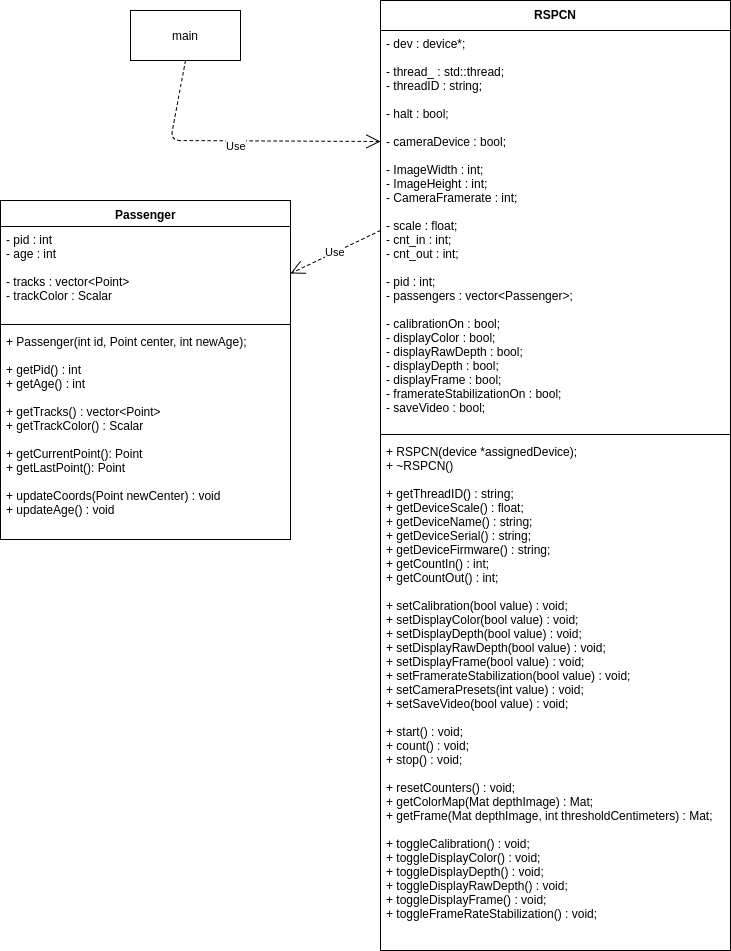
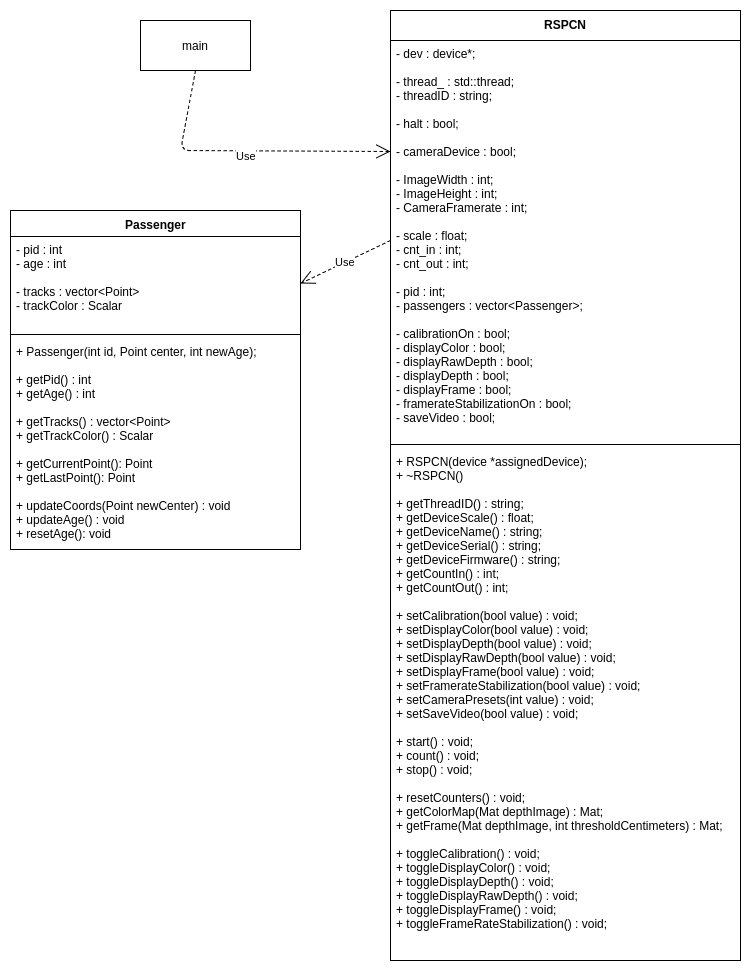
Aggiornato testo con ultime modifiche al codice

diff --git a/thesis.tex b/thesis.tex
@@ -822,6 +822,7 @@ class Passenger {
     // Methods
     void updateCoords(Point newCenter);
     void updateAge(){age++;return;};
+    void resetAge(){age = 0; return;};
 
   private:
     int pid;    // Passenger ID
@@ -834,30 +835,20 @@ class Passenger {
 \end{lstlisting}
 
 \begin{lstlisting}[language=C++, caption=passenger.cpp, style=customcpp]
-Passenger::Passenger(int id, Point center, int newAge = 0)
-{
+Passenger::Passenger(int id, Point center, int newAge = 0) {
     pid = id;
     age = newAge;
 
     tracks.push_back(center);
-    int r = rand() % 255;
-    int g = rand() % 255;
-    int b = rand() % 255;
-    trackColor = Scalar(r,g,b);
+    trackColor = Scalar(rand() % 255, rand() % 255, rand() % 255);
 }
 
-void Passenger::updateCoords(Point newCenter)
-{
+void Passenger::updateCoords(Point newCenter) {
     tracks.push_back(newCenter);
 
     // If too many tracking points remove older points
-    if(tracks.size() > MAX_TRACK_LENGTH) {
+    if(tracks.size() > MAX_TRACK_LENGTH)
         tracks.erase(tracks.begin());
-    }
-
-    // Reset age
-    // If the object is being tracked it means it's active we don't want it to disappear
-    age = 0;
 
     return;
 }
@@ -1148,6 +1139,7 @@ if(areaCurrentObject > areaMin)
             // Update coordinates
             newPassenger = false;
             passengers[i].updateCoords(mc);
+            passengers[i].resetAge();
 
             // --COUNTER
             if(passengers[i].getTracks().size() > 1)
@@ -1944,13 +1936,91 @@ void RSPCN::count()
         findContours(morphTrans, contours, hierarchy, RETR_EXTERNAL, CHAIN_APPROX_NONE);
 
         // For every detected object
-        for(unsigned int idx = 0; idx < contours.size(); idx++)
-        {
-            ...
+        for(unsigned int idx = 0; idx < contours.size(); idx++) {
+            // -- AREA
+            // Calculating area
+            double areaCurrentObject = contourArea(contours[idx]);
+
+            // If calculated area is big enough begin tracking the object
+            if(areaCurrentObject > areaMin) {
+                // Get bounding rectangle
+                Rect br = boundingRect(contours[idx]);
+                Point2f objCenter = Point2f((int)(br.x + br.width/2) ,(int)(br.y + br.height/2) );
+
+                // Draw mass center and bounding rectangle
+                rectangle( color, br.tl(), br.br(), GREEN, 2, 8, 0 );
+                circle( color, objCenter, 5, RED, 2, 8, 0 );
+
+                // --PASSENGERS DB UPDATE
+                bool newPassenger = true;
+
+                for(unsigned int i = 0; i < passengers.size(); i++) {
+
+                    // If the passenger is near a known passenger assume they are the same one
+                    if( abs(objCenter.x - passengers[i].getCurrentPoint().x) <= xNear &&
+                        abs(objCenter.y - passengers[i].getCurrentPoint().y) <= yNear ) {
+
+                        // Update coordinates
+                        newPassenger = false;
+                        passengers[i].updateCoords(objCenter);
+                        // If the object is being tracked it means its active we don't want it to disappear
+                        passengers[i].resetAge();
+
+                        break;
+                    }
+                }
+
+                // If wasn't near any known object is a new passenger
+                if(newPassenger) {
+                    Passenger p(pid, objCenter);
+                    passengers.push_back(p);
+                    pid++;
+                }
+            }
         }
-        ...
-    }
-    ...
+
+        // For every passenger in passengers DB
+        for(unsigned int i = 0; i < passengers.size(); i++) {
+            
+            if(passengers[i].getTracks().size() > 1) {
+
+                // -- DRAWING PASSENGER TRAJECTORIES
+                polylines(color, passengers[i].getTracks(), false, passengers[i].getTrackColor(),2);
+
+                // -- COUNTING
+                if(passengers[i].getTracks().size() > 1) {
+                    // Up to down
+                    if( (passengers[i].getLastPoint().y < frame.rows/2 && passengers[i].getCurrentPoint().y >= frame.rows/2) ||
+                        (passengers[i].getLastPoint().y <= frame.rows/2 && passengers[i].getCurrentPoint().y > frame.rows/2) ) {
+
+                        cnt_out++;
+
+                        // Visual feedback
+                        circle(color, Point(color.cols - 20, 20), 8, RED, CV_FILLED);
+                    }
+
+                    // Down to up
+                    if( (passengers[i].getLastPoint().y > frame.rows/2 && passengers[i].getCurrentPoint().y <= frame.rows/2) ||
+                        (passengers[i].getLastPoint().y >= frame.rows/2 && passengers[i].getCurrentPoint().y < frame.rows/2) ) {
+
+                        cnt_in++;
+
+                        // Visual feedback
+                        circle(color, Point(color.cols - 20, 20), 8, GREEN, CV_FILLED);
+                    }
+
+                }
+                
+            }
+
+            // --UPDATE PASSENGER STATS
+            // Updating age
+            passengers[i].updateAge();
+
+            // Removing older passengers
+            if(passengers[i].getAge() > (maxPassengerAge * fps) )
+                passengers.erase(passengers.begin() + i);
+        }
 }
 \end{lstlisting}
 
